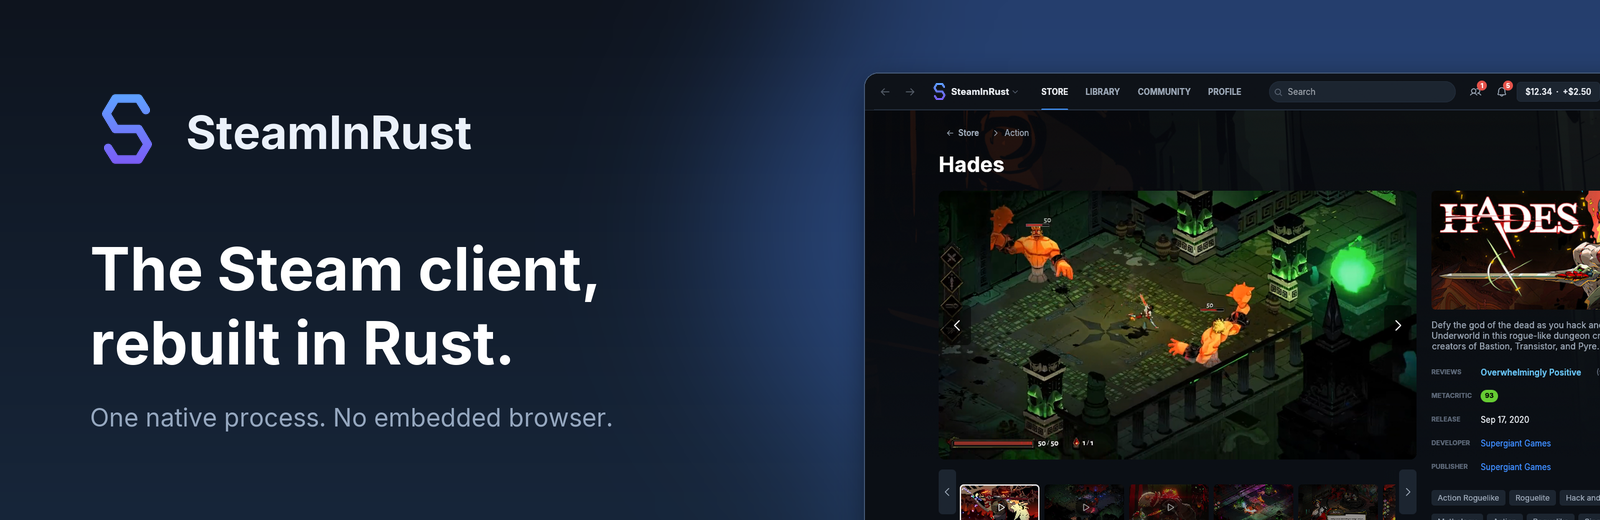
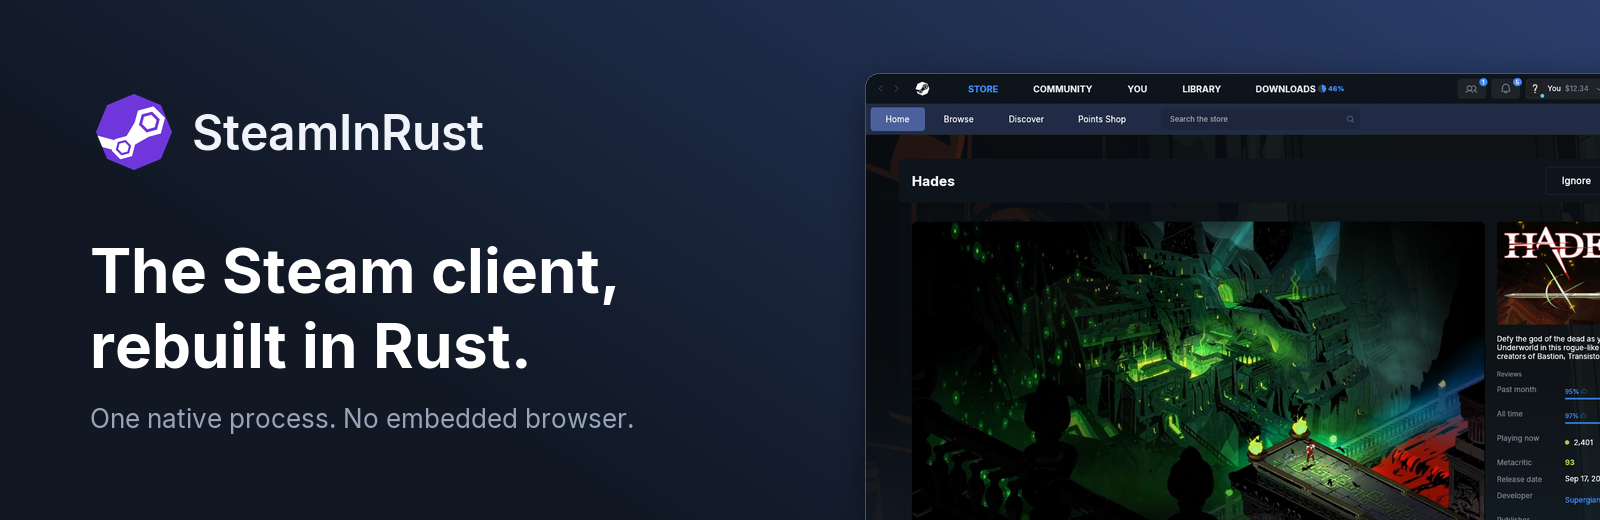
docs: the redesign in the README, parity and contributor docs, new screenshots
README (English and Russian): the look is credited to Juxtopposed's Steam Redesign (Figma Community), a Themes section and link, the new Friends & Chat window, Community home and profile features, a Community screenshot, and a note that the benchmark numbers predate the redesign. The Russian project-status table now matches the English one.

Parity: Points Shop, discovery feed, one Friends & Chat window, Community home, profile actions and editing, themes, app icon.

Screenshots and banners are retaken from --demo in the SteamInRust theme (English and Russian). docs/redesign.md credits the design and no longer points at local paths; CONTRIBUTING.md has the theme rule.

diff --git a/README.md b/README.md
@@ -7,6 +7,7 @@
   <a href="#performance"><b>Benchmarks</b></a> ·
   <a href="docs/parity.md"><b>Parity</b></a> ·
   <a href="docs/steam-compatibility.md"><b>Games and anti-cheat</b></a> ·
+  <a href="docs/themes.md"><b>Themes</b></a> ·
   <a href="CONTRIBUTING.md"><b>Contributing</b></a> ·
   <a href="README.ru.md"><b>Русский</b></a>
 </p>
@@ -31,6 +32,11 @@ drawing web pages. SteamInRust draws everything itself on the GPU with
 [egui](https://github.com/emilk/egui), so its window is up in about two and a half
 seconds and it idles at about 160 MB.
 
+Its look is based on [Steam Redesign](https://www.figma.com/community/file/1302616100790619521/steam-redesign) by
+**Juxtopposed**, a concept for a cleaner Steam shared on Figma Community. The
+whole look is a theme, so the old one is still there as **Classic**, and you
+can make your own.
+
 <p align="center">
   <img src="docs/media/en/store.png" alt="A store page in SteamInRust with the Hades trailer playing" width="100%">
 </p>
@@ -44,7 +50,8 @@ Everything below is in the current release. Area-by-area status:
   pages play trailers natively. Prices are in your wallet's currency, and games
   you own are marked. You can gift a game, even one you own, and SteamInRust
   checks first whether Steam will deliver it to that friend's region. Payment
-  happens on Steam's website, as Steam requires.
+  happens on Steam's website, as Steam requires. Also the discovery feed and
+  the Points Shop.
 - **Library.** Every game you own, collections (your Steam Favorites and Hidden
   included), non-Steam games, filters, achievements and full Properties:
   launch options, language, betas, DLC, Steam Cloud, verify files.
@@ -52,10 +59,17 @@ Everything below is in the current release. Area-by-area status:
   resume, and downloads that survive a restart. It shows network and disk
   speed separately, and picks the fastest of Steam's download regions.
 - **Friends and chat.** Live status with the game and rich presence, chat with
-  history, and a separate Friends window. Right-click a friend to join their
+  history and group chats, all in one Friends & Chat window like Steam's: the
+  open chat sits beside your friends list. Right-click a friend to join their
   game or look up their server.
-- **Community.** Profiles, comments, game hubs, Workshop pages, guides and
+- **Community.** A Community home built around players: your friends'
+  activity (screenshots, artwork, reviews, achievements), Explore, and news
+  from the developers of your games. Plus game hubs, Workshop pages, guides and
   discussions, all inside the app.
+- **Profiles.** Profiles with their backgrounds (animated ones play), Steam's
+  profile themes, badges, showcases and comments. Add friends from a profile.
+  Edit your own profile like on Steam: avatar and frame, background, mini
+  profile, theme and the full privacy settings.
 - **Workshop.** Browse a game's Workshop with its own tag filters. Subscribing
   downloads the item right away, and missing or updated items download before
   the game starts, like in Steam.
@@ -85,6 +99,11 @@ Everything below is in the current release. Area-by-area status:
   keyboard: home, library, game pages, store with an on-screen keyboard,
   downloads and friends. Open it from the menu, with the controller's Guide
   button, or start with `--bigpicture`.
+- **Themes.** A theme sets the whole look: colors, fonts, pictures, icons,
+  how each control looks and the layout (navigation on top or on the left,
+  where the friends list docks, compact or roomy). **SteamInRust** (the new
+  look) and **Classic** are built in, and a theme is just a folder you can
+  make yourself: [docs/themes.md](docs/themes.md).
 - **Plugins.** Small [Rhai](https://rhai.rs) scripts can add pages,
   buttons on game pages, items in friends' menus, timers, notifications and
   web requests to the sites they list, with only the permissions you approve.
@@ -93,18 +112,20 @@ Everything below is in the current release. Area-by-area status:
 
 <table>
   <tr>
-    <td width="50%"><img src="docs/media/en/library.png" alt="The library: game grid, collections in the sidebar"></td>
-    <td width="50%"><img src="docs/media/en/inventory.png" alt="Inventory: a Dota 2 item with its market price and price chart"></td>
+    <td width="50%"><img src="docs/media/en/library.png" alt="The library: what's new, recent games and the games list"></td>
+    <td width="50%"><img src="docs/media/en/community.png" alt="The Community home: friends' activity with screenshots and reviews"></td>
   </tr>
   <tr>
-    <td width="50%"><img src="docs/media/en/profile.png" alt="A profile: level, recent activity, most played and comments"></td>
-    <td width="50%"><img src="docs/media/en/startup-race.gif" alt="SteamInRust and Steam starting side by side"></td>
+    <td width="50%"><img src="docs/media/en/profile.png" alt="A profile: level, badges, game collection and links"></td>
+    <td width="50%"><img src="docs/media/en/inventory.png" alt="Inventory: a Dota 2 item with its market price and price chart"></td>
   </tr>
 </table>
 
+<p align="center"><img src="docs/media/en/startup-race.gif" alt="SteamInRust and Steam starting side by side" width="720"></p>
+
 <p align="center"><img src="docs/media/en/bigpicture.gif" alt="Big Picture: the home screen and library, driven with the keyboard" width="720"></p>
 
-<sub>Screenshots from <code>--demo</code> mode, which uses sample account data.</sub>
+<sub>Screenshots from <code>--demo</code> mode, which uses sample account data, in the SteamInRust theme. The start-up race was recorded before the redesign.</sub>
 
 ## Performance
 
@@ -131,7 +152,8 @@ result of 3 runs:
 Start times are cold starts (nothing in the file cache). 0.7.1 also cut
 SteamInRust's own idle memory from 253 MB to 163 MB and its idle CPU to zero,
 compared with 0.7.0 on the same run. Method, ranges, warm starts and what was
-left out: [docs/benchmarks.md](docs/benchmarks.md).
+left out: [docs/benchmarks.md](docs/benchmarks.md). These numbers are from
+before the redesign; they'll be measured again for the release that brings it.
 
 ## Download
 
@@ -253,7 +275,7 @@ crates/
   plugins        Rhai plugins
   extensions     the interface every page implements
   i18n           translations (locales/ru.toml)
-  ui             theme, fonts, widgets
+  ui             themes (packages in ui/themes), fonts, shared controls
   proto          Steam's .proto files, compiled with protox
   vdf, model     KeyValues parser, shared types
 ```
@@ -291,6 +313,9 @@ work are in [docs/parity.md](docs/parity.md).
 
 ## Credits
 
+Design: [Steam Redesign](https://www.figma.com/community/file/1302616100790619521/steam-redesign) by **Juxtopposed**, shared on Figma
+Community ([the video about it](https://youtu.be/cDY2p1CTkPo)). SteamInRust's default theme follows
+it; the code, the theme system and any mistakes in the port are ours.
 Fonts: [Inter](https://rsms.me/inter/) (OFL). Icons: [Phosphor](https://phosphoricons.com) (MIT).
 Protocol definitions: [SteamDatabase/Protobufs](https://github.com/SteamDatabase/Protobufs).
 Price history: [IsThereAnyDeal](https://isthereanydeal.com).

diff --git a/docs/parity.md b/docs/parity.md
@@ -1,7 +1,7 @@
 # Steam parity
 
 How much of the official Steam desktop client SteamInRust covers, area by
-area. Last checked against the code on 18 November 2026 (v0.7.0 and the changes after it).
+area. Last checked against the code on 19 November 2026 (v0.7.0, the changes after it and the redesign).
 
 Scores: **0** not started · **0.25** started · **0.5** usable, big parts
 missing · **0.75** mostly there · **1** complete. Anything marked "opens
@@ -100,7 +100,9 @@ All native, no web view.
 | Mature content warning with "View page" and "Don't ask again" (switch back in store settings) | Done |
 | Trailers | Native player (`crates/video`): HLS streaming, full screen, quality and volume. Decoded with Media Foundation on Windows and VideoToolbox/AudioToolbox on a Mac |
 | Prices in your wallet's currency, "In library" marks | Done |
-| Cart (the same cart as the website), Steam's "Added to your cart" popup, discount price tags, product keys, wallet balance | Done |
+| Cart (the same cart as the website), Steam's "Added to your cart" popup, discount price tags, product keys, wallet balance | Done. Each copy is for your account or a gift to a friend you pick, then one Checkout button |
+| Points Shop: your points, items by category (avatars, frames, backgrounds, mini-profile backgrounds, stickers, chat effects, emoticons…) and items from your games | Done (browsing). Buying with points opens Steam's website |
+| Discovery feed: the queue as a feed, "New picks" for a fresh queue | Done. "New picks" wasn't tested on a real account |
 | Gifts, including games you already own, with a check that Steam will deliver to the friend's region | Done |
 | Price history | Through IsThereAnyDeal, with your own free key |
 | Checkout | Opens Steam's website. Steam only takes payment there |
@@ -114,7 +116,7 @@ All native, no web view.
 | --- | --- |
 | Friends list with live status, the game being played and rich presence | Done |
 | One-to-one chat with history, typing indicator and unread counts | Done |
-| Separate Friends & Chat window that works while the main window is in the tray | Done |
+| One Friends & Chat window, like Steam's: the friends list docked on the right, the open chat beside it on the left, conversations switched inside it. It works while the main window is in the tray | Done. It replaced the friends panel, the hover preview and the friends page in Community |
 | Right-click menu: join game, view server info (live A2S query), watch game, view game info, invite to play, nickname, favorites, remove, block | Done |
 | Add friends: friend code, Quick Invite links (make, copy, or open someone's), search profiles by name; accept or ignore requests | Done |
 | Group chats: your groups with unread marks, rooms, history, sending, live messages, who's online in a members list | Done, in the app. Text only: pictures, polls, and creating or managing rooms aren't there yet |
@@ -124,7 +126,10 @@ All native, no web view.
 
 | | |
 | --- | --- |
-| Profiles: background, avatar frame, level, badges, showcases, comments (read and post) | Done |
+| Community home with three sections: **Friends activity** (Steam's activity feed: screenshots, artwork, reviews, achievements, new games, posts), **Explore** (artwork, screenshots, broadcasts, guides, Workshop) and **Developers** (news from games you own) | Done |
+| Profiles: background (animated ones play), avatar frame, level, badges, showcases, comments (read and post), Steam's profile themes | Done. Animated avatar frames show as still pictures |
+| On someone's profile: Add friend (or accept, cancel, remove), Message, and a More menu (copy the link, view on Steam, inventory, remove friend, block, report on Steam) | Done. Adding, removing and blocking weren't tested on a real account |
+| Edit your profile: General, Avatar (animated avatars and frames), Profile background (full screen or original size), Mini profile, Theme, Featured badge, and Steam's full Privacy page with its checkboxes | Done, with a preview before saving. The Showcase Manager isn't there yet. Saving wasn't tested on a real account |
 | Someone's games, inventory, screenshots, artwork, videos, Workshop items and guides | Done |
 | Community hub per game: screenshots, artwork, videos, news | Done |
 | Workshop item pages: media, description, required items, change notes, comments; subscribe, rate, favorite | Done. Rating and favoriting weren't tested on a real account |
@@ -197,14 +202,16 @@ Details: [steam-compatibility.md](steam-compatibility.md).
 | | |
 | --- | --- |
 | All Steam notification types with game art or avatars, toasts | Done |
-| Tray icon with Steam's menu, close to tray | Done |
+| Tray icon with Steam's menu (drawn in the current theme), close to tray | Done |
+| Pick the app icon (taskbar, window and tray) from the SteamInRust logos | Done |
 
 ## Settings, languages, updates
 
 | | |
 | --- | --- |
 | Settings: account, friends, security, notifications, interface, appearance, store, library, downloads, storage, cloud, in game, accessibility, plugins | Done |
-| Themes, accent color, UI scale | Done |
+| Themes: full skins with their own colors, fonts, images, icons, control styles and layout. Built in: **SteamInRust** (the default, after [Juxtopposed's Steam Redesign](https://www.figma.com/community/file/1302616100790619521/steam-redesign)) and **Classic** (the look before it). Your own themes load from a folder ([docs/themes.md](themes.md)) | Done. People upgrading are asked once whether to try the new look. There's no theme store yet |
+| Accent color, UI scale | Done |
 | English, Russian, Simplified Chinese, Spanish, Brazilian Portuguese, German and French, picked from the system language | Done. Japanese, Korean, Traditional Chinese, Polish, Turkish and others aren't translated yet |
 | Installer, uninstaller, background updates checked with SHA-256 | Done. One download at a time; it continues after a restart or a dropped connection, and old installers are deleted. On a Mac: a disk image, and the app replaces itself on update |
 | Copy, cut and paste in every text field, with a right-click menu | Done |

diff --git a/docs/redesign.md b/docs/redesign.md
@@ -1,17 +1,25 @@
-# The redesign: shared foundation
+# The redesign
 
-SteamInRust's look follows the Figma file "Steam Redesign (Community)". This
-page is for whoever restyles a page: what the shared parts are, what each
-one is for, how to call it, and which code draws which screen today.
+SteamInRust's default look follows [Steam Redesign](https://www.figma.com/community/file/1302616100790619521/steam-redesign) by
+**Juxtopposed**, shared on Figma Community. This page is for whoever works
+on a page: the rules, what the shared parts are, what each one is for, how to
+call it, and which code draws which screen.
 
-The design itself lives outside the repository (it's never committed):
+The design isn't in the repository. Open the Figma file above to see it. For
+exact numbers, a local export of the file is handy (never commit it; the
+repository's `.gitignore` already keeps `Steam_Redesign_Full_AI_Export/` and
+`media/` out):
 
-- `C:\SteamInRust\Steam_Redesign_Full_AI_Export\` is the full Figma export.
-  `pages/style-guide.md` lists the style guide frames; `decoded/nodes.jsonl`
-  and `decoded/all_nodes.csv` have exact sizes, paddings, radii and colors per
-  node; `decoded/frame_inventory.csv` lists every screen.
-- `C:\SteamInRust\media\Steam Redesign (Community)\` has full-size renders of
-  the screens (`library home.png`, `client store.png`, `store page.png`…).
+- In the export, `pages/style-guide.md` lists the style guide frames;
+  `decoded/nodes.jsonl` and `decoded/all_nodes.csv` have exact sizes,
+  paddings, radii and colors per node; `decoded/frame_inventory.csv` lists
+  every screen.
+- Renders of the screens (`library home.png`, `client store.png`,
+  `store page.png`…) can be exported from Figma next to it.
+
+The design is drawn on a 1920 px canvas at a large size, so the default
+theme shows it at 85% (`scale = 0.85` in its `[layout]`). Keep the Figma
+numbers in the theme as they are; the scale does the rest.
 
 Node IDs below (`84:791`) are Figma's. In the export, a node's fill can come
 from a shared style (`styleIdForFill`); the style's color wins over the
@@ -300,12 +308,12 @@ previews, `--friends` opens it and `--friends=chat`, `=group`, `=add`,
 Big Picture (`apps/desktop/src/bigpicture`) keeps its own look; it only picks
 up the theme's colors.
 
-## Screens and who restyles them
+## Screens and the code that draws them
 
 From `decoded/frame_inventory.csv` (the UI page, `18:946`). "Today" is the
 code that draws the closest screen now.
 
-### Store session
+### Store
 
 | Frame | Node | Today |
 | --- | --- | --- |
@@ -318,7 +326,7 @@ code that draws the closest screen now.
 | browse | `660:10019` | `builtin/store_more.rs` (`browse_page`) |
 | point shop | `317:1001` | nothing yet (new screen) |
 
-### Library session
+### Library and Downloads
 
 | Frame | Node | Today |
 | --- | --- | --- |
@@ -335,7 +343,7 @@ code that draws the closest screen now.
 
 The game's Properties window (`library_props.rs`) has no frame in the design.
 
-Restyled (the library session): the page bar, the game list, the home,
+Restyled: the page bar, the game list, the home,
 grid and list views, collections, a game's page and Downloads. Pieces other
 pages can use too: `w::game_card_info` / `w::game_tile_info` (the card's
 hover state from `363:5954`: title, Play or Install, last played and time
@@ -345,7 +353,7 @@ New components: `game_row` (the library's list), `shelf` (its blocks and list
 rows) and `download_row`. `--no-friends-panel` starts a preview without the
 friends list, at the design's width.
 
-### Community session
+### Community
 
 | Frame | Node | Today |
 | --- | --- | --- |
@@ -363,7 +371,7 @@ friends list, at the design's width.
 Groups (`hub/group.rs`), achievements (`hub/achievements.rs`) and the
 inventory (`inventory.rs`, `inventory_trades.rs`) have no frame of their own.
 
-### Profile and settings session
+### Profile, settings, friends
 
 | Frame | Node | Today |
 | --- | --- | --- |

diff --git a/CONTRIBUTING.md b/CONTRIBUTING.md
@@ -31,6 +31,12 @@ installed copies of the app update themselves from it.
 - Never add anything that touches games' anti-cheat. Games with VAC, EAC or
   BattlEye always run through the official Steam client.
 - Payments stay on Steam's website.
+- The look comes from the theme. Pages use theme tokens and the shared
+  controls in `crates/ui`, never their own colors, sizes or fonts, so every
+  theme (and Classic) keeps working. The rules and the screen-by-screen map
+  are in [docs/redesign.md](docs/redesign.md); how themes work is in
+  [docs/themes.md](docs/themes.md). Check a page in both built-in themes
+  (`--theme=classic`).
 
 ## Translations
 
